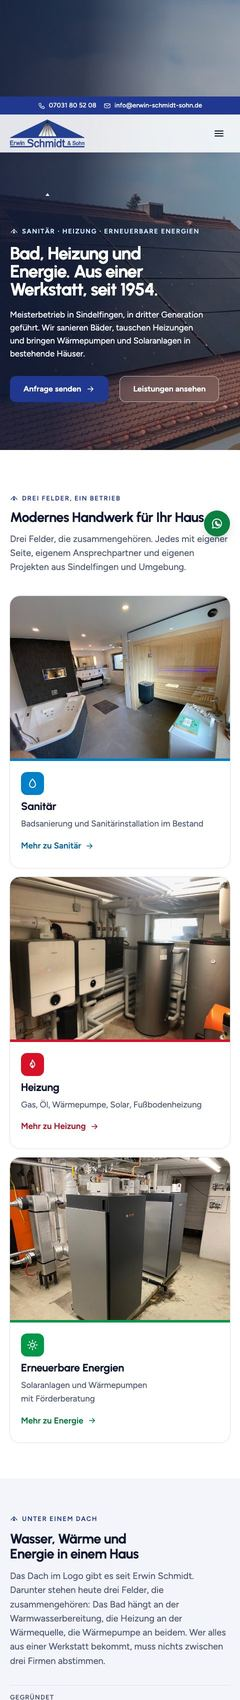
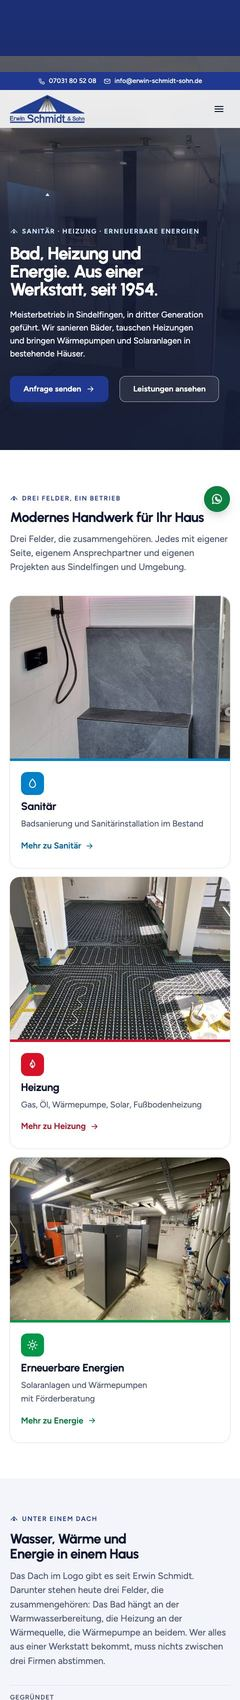
webdesign: Erwin-Schmidt-Screenshot mit Foto-Hero

diff --git a/webdesign/index.html b/webdesign/index.html
@@ -40,7 +40,7 @@
 </header>
 <div class="mobilmenu" id="mobilmenu"><a href="/monteure/"><svg class="ik" viewBox="0 0 24 24" aria-hidden="true" focusable="false"><path d="M16 21v-2a4 4 0 0 0-4-4H6a4 4 0 0 0-4 4v2"/><circle cx="9" cy="7" r="4"/><path d="M22 21v-2a4 4 0 0 0-3-3.87"/><path d="M16 3.13a4 4 0 0 1 0 7.75"/></svg>Monteure</a><a href="/auftraege/"><svg class="ik" viewBox="0 0 24 24" aria-hidden="true" focusable="false"><path d="M9 6 6.5 3.5a1.5 1.5 0 0 0-1-.5C4.683 3 4 3.683 4 4.5V17a2 2 0 0 0 2 2h12a2 2 0 0 0 2-2v-5"/><path d="m10 5-2 2"/><path d="M2 12h20"/><path d="M7 19v2"/><path d="M17 19v2"/></svg>Aufträge</a><a href="/ueber-uns/"><svg class="ik" viewBox="0 0 24 24" aria-hidden="true" focusable="false"><path d="m11 17 2 2a1 1 0 1 0 3-3"/><path d="m14 14 2.5 2.5a1 1 0 1 0 3-3l-3.88-3.88a3 3 0 0 0-4.24 0l-.88.88a1 1 0 1 1-3-3l2.81-2.81a5.79 5.79 0 0 1 7.06-.87l.47.28a2 2 0 0 0 1.42.25L21 4"/><path d="m21 3 1 11h-2"/><path d="M3 3 2 14l6.5 6.5a1 1 0 1 0 3-3"/><path d="M3 4h8"/></svg>Über uns</a><a class="nav-cta" href="/potenzialanalyse/"><svg class="ik" viewBox="0 0 24 24" aria-hidden="true" focusable="false"><circle cx="12" cy="12" r="10"/><circle cx="12" cy="12" r="6"/><circle cx="12" cy="12" r="2"/></svg>Potenzialanalyse</a></div>
 <main>
-<section class="uhero w web-hero"><div class="raster" aria-hidden="true"></div><div class="wrap"><div class="txt"><p class="kick rv">Websites für SHK-Betriebe</p><h1 class="h-xl rv" data-d="1">Eine Website, die Bäder bringt. <span class="em w">Und Monteure.</span></h1><p class="lead rv" data-d="2">Jede Leistung bekommt ihre eigene Seite mit deinem Ort. Die Anfrage fragt Baujahr und Eigentum ab, bevor du zurückrufst. Dazu eine Karriereseite, auf der sich Monteure in 60 Sekunden bewerben. Gebaut mit Fotos aus deinem Betrieb, online in zwei bis drei Wochen.</p><div class="hero-cta rv" data-d="3"><a class="btn btn-warm btn-lg" href="https://calendly.com/noahseelau/website-potenzial" target="_blank" rel="noopener"><svg class="ik ic" viewBox="0 0 24 24" aria-hidden="true" focusable="false"><rect width="20" height="14" x="2" y="3" rx="2"/><path d="M8 21h8"/><path d="M12 17v4"/></svg>Website besprechen</a><a class="btn btn-glass btn-lg" href="#projekte">Drei Seiten ansehen</a></div><div class="rv" data-d="4"><p class="trust"><span><span class="stern" aria-hidden="true"><svg class="ik voll" viewBox="0 0 24 24" aria-hidden="true" focusable="false"><path d="M12 2.5l2.9 6.05 6.6.85-4.85 4.6 1.25 6.55L12 17.4l-5.9 3.15 1.25-6.55L2.5 9.4l6.6-.85z"/></svg><svg class="ik voll" viewBox="0 0 24 24" aria-hidden="true" focusable="false"><path d="M12 2.5l2.9 6.05 6.6.85-4.85 4.6 1.25 6.55L12 17.4l-5.9 3.15 1.25-6.55L2.5 9.4l6.6-.85z"/></svg><svg class="ik voll" viewBox="0 0 24 24" aria-hidden="true" focusable="false"><path d="M12 2.5l2.9 6.05 6.6.85-4.85 4.6 1.25 6.55L12 17.4l-5.9 3.15 1.25-6.55L2.5 9.4l6.6-.85z"/></svg><svg class="ik voll" viewBox="0 0 24 24" aria-hidden="true" focusable="false"><path d="M12 2.5l2.9 6.05 6.6.85-4.85 4.6 1.25 6.55L12 17.4l-5.9 3.15 1.25-6.55L2.5 9.4l6.6-.85z"/></svg><svg class="ik voll" viewBox="0 0 24 24" aria-hidden="true" focusable="false"><path d="M12 2.5l2.9 6.05 6.6.85-4.85 4.6 1.25 6.55L12 17.4l-5.9 3.15 1.25-6.55L2.5 9.4l6.6-.85z"/></svg></span> <b>5,0</b> auf Google</span><span>·</span><span><b>130+</b> Betriebe</span><span>·</span><span><b>Spezialisiert</b> auf SHK</span></p></div></div><div class="web-stapel rv" data-d="2"><div class="browser s3"><div class="b-leiste" aria-hidden="true"><i></i><i></i><i></i><span>Erwin Schmidt & Sohn · Sindelfingen</span></div><div class="scroller"><img decoding="async" src="/assets/opt/assets-webdesign-erwin-schmidt-start-desk-600-600.webp?v=c0965d97" srcset="/assets/webdesign/erwin-schmidt-start-desk-600.jpg?v=a8168637 600w, /assets/webdesign/erwin-schmidt-start-desk.jpg?v=fdcce0b1 1200w" sizes="(max-width: 900px) 86vw, 40vw" alt="Erwin Schmidt &amp; Sohn · Sindelfingen, Startseite" width="1200" height="3200" fetchpriority="low"></div></div><div class="browser s2"><div class="b-leiste" aria-hidden="true"><i></i><i></i><i></i><span>Irlbacher GmbH · Fensterbach</span></div><div class="scroller"><img decoding="async" src="/assets/opt/assets-webdesign-irlbacher-start-desk-600-600.webp?v=c18dfa46" srcset="/assets/webdesign/irlbacher-start-desk-600.jpg?v=5e6b7e17 600w, /assets/webdesign/irlbacher-start-desk.jpg?v=13626c0e 1200w" sizes="(max-width: 900px) 86vw, 40vw" alt="Irlbacher GmbH · Fensterbach, Startseite" width="1200" height="3200" fetchpriority="low"></div></div><div class="browser s1"><div class="b-leiste" aria-hidden="true"><i></i><i></i><i></i><span>Entenmann Haustechnik · Weilheim i.OB</span></div><div class="scroller"><img decoding="async" src="/assets/opt/assets-webdesign-entenmann-start-desk-600-600.webp?v=257fb932" srcset="/assets/webdesign/entenmann-start-desk-600.jpg?v=13d3f19e 600w, /assets/webdesign/entenmann-start-desk.jpg?v=5aa8c568 1200w" sizes="(max-width: 900px) 86vw, 40vw" alt="Entenmann Haustechnik · Weilheim i.OB, Startseite" width="1200" height="3200" fetchpriority="high"></div></div></div></div></section><section class="sec" id="vorteile"><div class="wrap"><div class="sec-kopf"><div><p class="kick w rv">Was die Seite können muss</p><h2 class="d rv">Gebaut für die Aufträge, <span class="em w">die du willst.</span></h2></div><p class="lead rv">Ein Komplettbad oder eine Wärmepumpe bringt 20.000 bis 50.000 €. Die Seite muss genau dafür gefunden werden und die Anfrage vorsortieren, bevor du losfährst.</p></div><div class="vorteile bilder-v"><article class="vorteil mit-bild w rv" data-d="1"><div class="v-bild" aria-hidden="true"><img decoding="async" loading="lazy" srcset="/assets/opt/assets-webdesign-entenmann-heizung-320.webp?v=494382b1 320w, /assets/opt/assets-webdesign-entenmann-heizung-480.webp?v=f5fad840 480w, /assets/opt/assets-webdesign-entenmann-heizung-640.webp?v=5f0bf9f5 640w, /assets/opt/assets-webdesign-entenmann-heizung-960.webp?v=afa210d3 960w, /assets/opt/assets-webdesign-entenmann-heizung-1100.webp?v=4d3ea10e 1100w" sizes="(max-width: 700px) 280px, 370px" src="/assets/opt/assets-webdesign-entenmann-heizung-1100.webp?v=4d3ea10e" alt="Leistungsseite Heizung und Wärmepumpe der Entenmann Haustechnik" width="1200" height="750"></div><h3>Eine Seite je Leistung, mit Ort</h3><p>Jede Leistung bekommt ihre eigene Seite mit deinem Ort im Titel, die Wärmepumpe genauso wie das Bad. Wer „Wärmepumpe Weilheim“ sucht, landet auf genau dieser Seite.</p></article><article class="vorteil mit-bild w rv" data-d="2"><div class="v-bild" aria-hidden="true"><div class="tickets" aria-hidden="true"><div class="ticket" style="--d:0.00s"><span class="tic"><svg class="ik" viewBox="0 0 24 24" aria-hidden="true" focusable="false"><path d="M9 6 6.5 3.5a1.5 1.5 0 0 0-1-.5C4.683 3 4 3.683 4 4.5V17a2 2 0 0 0 2 2h12a2 2 0 0 0 2-2v-5"/><path d="m10 5-2 2"/><path d="M2 12h20"/><path d="M7 19v2"/><path d="M17 19v2"/></svg></span><span><b>Komplettbad</b><small>EFH · Baujahr 1994 · Eigentümer · Start im Frühjahr</small></span><span class="ok">vorqualifiziert<svg class="ik" viewBox="0 0 24 24" aria-hidden="true" focusable="false"><path d="M20 6 9 17l-5-5"/></svg></span></div><div class="ticket" style="--d:0.12s"><span class="tic"><svg class="ik" viewBox="0 0 24 24" aria-hidden="true" focusable="false"><path d="M8.5 14.5A2.5 2.5 0 0 0 11 12c0-1.38-.5-2-1-3-1.072-2.143-.224-4.054 2-6 .5 2.5 2 4.9 4 6.5 2 1.6 3 3.5 3 5.5a7 7 0 1 1-14 0c0-1.153.433-2.294 1-3a2.5 2.5 0 0 0 2.5 2.5z"/></svg></span><span><b>Wärmepumpe</b><small>Ölheizung Bj. 2001 · 160 m² · Eigentümer</small></span><span class="ok">vorqualifiziert<svg class="ik" viewBox="0 0 24 24" aria-hidden="true" focusable="false"><path d="M20 6 9 17l-5-5"/></svg></span></div></div></div><h3>Anfragen, die vorsortiert ankommen</h3><p>Das Formular fragt nach Baujahr und Heizungsart und ob der Anrufer Eigentümer ist. Das weißt du, bevor du zurückrufst, und fährst nicht mehr zu Kunden, bei denen es schon am Baujahr scheitert.</p></article><article class="vorteil mit-bild  rv" data-d="3"><div class="v-bild" aria-hidden="true"><div class="mini-phone v-phone"><img decoding="async" fetchpriority="low" width="480" height="7730" srcset="/assets/opt/assets-funnels-irlbacher-jobs-full-200.webp?v=64af6670 200w, /assets/opt/assets-funnels-irlbacher-jobs-full-320.webp?v=7e382694 320w, /assets/opt/assets-funnels-irlbacher-jobs-full-480.webp?v=ce5ad504 480w" sizes="(max-width: 700px) 150px, 150px" src="/assets/opt/assets-funnels-irlbacher-jobs-full-480.webp?v=ce5ad504" alt="" loading="lazy"></div></div><h3>Karriereseite, Bewerbung in 60 Sekunden</h3><p>Ein paar Fragen am Handy, kein Lebenslauf. Die Jobs-Seite von Irlbacher führt direkt in die Bewerbungsstrecke, in der auch die Anzeigen laufen.</p></article></div></div></section><section class="sec" id="projekte" style="padding-top:0"><div class="wrap"><div class="sec-kopf"><div><p class="kick k rv">Drei Betriebe, drei Seiten</p><h2 class="d rv">So sieht das bei <span class="em k">drei SHK-Betrieben</span> aus.</h2></div><p class="lead rv">Weilheim in Oberbayern, Fensterbach in der Oberpfalz und Sindelfingen bei Stuttgart. Jede Seite scrollt von selbst durch, sobald sie im Bild ist.</p></div><div class="web-projekte"><article class="web-projekt w rv" data-d="0" id="entenmann"><div class="web-schirm"><div class="raster" aria-hidden="true"></div><div class="web-duo"><div class="phone klein"><div class="scroller"><img decoding="async" src="/assets/opt/assets-webdesign-entenmann-start-mobil-240-240.webp?v=27c89fe5" srcset="/assets/webdesign/entenmann-start-mobil-240.jpg?v=c64f9e31 240w, /assets/webdesign/entenmann-start-mobil.jpg?v=8d6258fd 480w" sizes="(max-width: 1180px) 24vw, 12vw" alt="" width="480" height="3400" loading="lazy"></div></div><div class="browser"><div class="b-leiste" aria-hidden="true"><i></i><i></i><i></i><span>Entenmann Haustechnik · Weilheim i.OB</span></div><div class="scroller"><img decoding="async" src="/assets/opt/assets-webdesign-entenmann-start-desk-600-600.webp?v=257fb932" srcset="/assets/webdesign/entenmann-start-desk-600.jpg?v=13d3f19e 600w, /assets/webdesign/entenmann-start-desk.jpg?v=5aa8c568 1200w" sizes="(max-width: 1180px) 70vw, 36vw" alt="Entenmann Haustechnik · Weilheim i.OB, Startseite" width="1200" height="3200" loading="lazy"></div></div></div></div><div class="web-text"><span class="lg"><img decoding="async" loading="lazy" srcset="/assets/opt/assets-logos-box-entenmann-180.webp?v=2d45d67e 180w, /assets/opt/assets-logos-box-entenmann-336.webp?v=93acbc05 336w" sizes="(max-width: 700px) 150px, 150px" src="/assets/opt/assets-logos-box-entenmann-336.webp?v=93acbc05" alt="Entenmann Haustechnik" width="336" height="120"></span><p class="kick w">Heizung · Bad · Wärmepumpe · Weilheim i.OB</p><h3>Entenmann Haustechnik</h3><p>Meisterbetrieb seit 1969, vom Diplom-Ingenieur geplant. Dunkle Bühne, Video im Hero, und der Wärmekreis aus dem Logo zieht sich als Linie durch die ganze Seite.</p><ul class="web-punkte"><li><span class="ic" aria-hidden="true"><svg class="ik" viewBox="0 0 24 24" aria-hidden="true" focusable="false"><rect width="20" height="14" x="2" y="3" rx="2"/><path d="M8 21h8"/><path d="M12 17v4"/></svg></span><span>Eine Seite je Leistung: Heizung &amp; Wärmepumpe, Bad &amp; Sanitär, Anlagentechnik, Wartung &amp; Notdienst</span></li><li><span class="ic" aria-hidden="true"><svg class="ik" viewBox="0 0 24 24" aria-hidden="true" focusable="false"><path d="M16 21v-2a4 4 0 0 0-4-4H6a4 4 0 0 0-4 4v2"/><circle cx="9" cy="7" r="4"/><path d="M22 21v-2a4 4 0 0 0-3-3.87"/><path d="M16 3.13a4 4 0 0 1 0 7.75"/></svg></span><span>Jobs-Seite für Anlagenmechaniker SHK</span></li><li><span class="ic" aria-hidden="true"><svg class="ik" viewBox="0 0 24 24" aria-hidden="true" focusable="false"><circle cx="11" cy="11" r="8"/><path d="m21 21-4.3-4.3"/></svg></span><span>Jede Seite auf Weilheim und Umgebung gebaut</span></li></ul><a class="btn btn-ink" href="https://entenmann-preview.pages.dev/" target="_blank" rel="noopener"><svg class="ik ic" viewBox="0 0 24 24" aria-hidden="true" focusable="false"><rect width="20" height="14" x="2" y="3" rx="2"/><path d="M8 21h8"/><path d="M12 17v4"/></svg>Seite ansehen</a></div></article><article class="web-projekt k gespiegelt rv" data-d="1" id="irlbacher"><div class="web-schirm"><div class="raster" aria-hidden="true"></div><div class="web-duo"><div class="phone klein"><div class="scroller"><img decoding="async" src="/assets/opt/assets-webdesign-irlbacher-start-mobil-240-240.webp?v=9ee0a622" srcset="/assets/webdesign/irlbacher-start-mobil-240.jpg?v=ede103c6 240w, /assets/webdesign/irlbacher-start-mobil.jpg?v=b8c7e320 480w" sizes="(max-width: 1180px) 24vw, 12vw" alt="" width="480" height="3400" loading="lazy"></div></div><div class="browser"><div class="b-leiste" aria-hidden="true"><i></i><i></i><i></i><span>Irlbacher GmbH · Fensterbach</span></div><div class="scroller"><img decoding="async" src="/assets/opt/assets-webdesign-irlbacher-start-desk-600-600.webp?v=c18dfa46" srcset="/assets/webdesign/irlbacher-start-desk-600.jpg?v=5e6b7e17 600w, /assets/webdesign/irlbacher-start-desk.jpg?v=13626c0e 1200w" sizes="(max-width: 1180px) 70vw, 36vw" alt="Irlbacher GmbH · Fensterbach, Startseite" width="1200" height="3200" loading="lazy"></div></div></div></div><div class="web-text"><span class="lg"><img decoding="async" loading="lazy" srcset="/assets/opt/assets-logos-box-irlbacher-180.webp?v=66ed90b6 180w, /assets/opt/assets-logos-box-irlbacher-336.webp?v=e89e2a06 336w" sizes="(max-width: 700px) 150px, 150px" src="/assets/opt/assets-logos-box-irlbacher-336.webp?v=e89e2a06" alt="Irlbacher GmbH" width="336" height="120"></span><p class="kick k">Sanitär · Heizung · Lüftung · Fensterbach bei Schwandorf</p><h3>Irlbacher GmbH</h3><p>Josef Irlbacher und sein Team vor der Kamera, Fotos vom Shooting im Betrieb. Die drei Bögen aus dem Logo laufen als Ring durch Hero und Unterseiten.</p><ul class="web-punkte"><li><span class="ic" aria-hidden="true"><svg class="ik" viewBox="0 0 24 24" aria-hidden="true" focusable="false"><rect width="20" height="14" x="2" y="3" rx="2"/><path d="M8 21h8"/><path d="M12 17v4"/></svg></span><span>Sechs Leistungsseiten: Bad, Heizung, Wärmepumpe, Lüftung &amp; Klima, Solar, Kundendienst</span></li><li><span class="ic" aria-hidden="true"><svg class="ik" viewBox="0 0 24 24" aria-hidden="true" focusable="false"><path d="M16 21v-2a4 4 0 0 0-4-4H6a4 4 0 0 0-4 4v2"/><circle cx="9" cy="7" r="4"/><path d="M22 21v-2a4 4 0 0 0-3-3.87"/><path d="M16 3.13a4 4 0 0 1 0 7.75"/></svg></span><span>Jobs-Seite mit Recruiting-Reel und Bewerbung in 60 Sekunden</span></li><li><span class="ic" aria-hidden="true"><svg class="ik" viewBox="0 0 24 24" aria-hidden="true" focusable="false"><path d="M14.5 4h-5L7 7H4a2 2 0 0 0-2 2v9a2 2 0 0 0 2 2h16a2 2 0 0 0 2-2V9a2 2 0 0 0-2-2h-3l-2.5-3z"/><circle cx="12" cy="13" r="3"/></svg></span><span>Shooting bei Irlbacher: Team, Werkstatt, Fahrzeuge</span></li></ul><a class="btn btn-ink" href="https://irlbacher-vorschau.handwerksmanufaktur.workers.dev/" target="_blank" rel="noopener"><svg class="ik ic" viewBox="0 0 24 24" aria-hidden="true" focusable="false"><rect width="20" height="14" x="2" y="3" rx="2"/><path d="M8 21h8"/><path d="M12 17v4"/></svg>Seite ansehen</a></div></article><article class="web-projekt w rv" data-d="2" id="erwin-schmidt"><div class="web-schirm"><div class="raster" aria-hidden="true"></div><div class="web-duo"><div class="phone klein"><div class="scroller"><img decoding="async" src="/assets/opt/assets-webdesign-erwin-schmidt-start-mobil-240-240.webp?v=d6b666a0" srcset="/assets/webdesign/erwin-schmidt-start-mobil-240.jpg?v=5a753ef4 240w, /assets/webdesign/erwin-schmidt-start-mobil.jpg?v=f668d674 480w" sizes="(max-width: 1180px) 24vw, 12vw" alt="" width="480" height="3400" loading="lazy"></div></div><div class="browser"><div class="b-leiste" aria-hidden="true"><i></i><i></i><i></i><span>Erwin Schmidt &amp; Sohn · Sindelfingen</span></div><div class="scroller"><img decoding="async" src="/assets/opt/assets-webdesign-erwin-schmidt-start-desk-600-600.webp?v=c0965d97" srcset="/assets/webdesign/erwin-schmidt-start-desk-600.jpg?v=a8168637 600w, /assets/webdesign/erwin-schmidt-start-desk.jpg?v=fdcce0b1 1200w" sizes="(max-width: 1180px) 70vw, 36vw" alt="Erwin Schmidt &amp;amp; Sohn · Sindelfingen, Startseite" width="1200" height="3200" loading="lazy"></div></div></div></div><div class="web-text"><span class="lg"><img decoding="async" loading="lazy" srcset="/assets/opt/assets-logos-box-erwin-schmidt-180.webp?v=9d192bf5 180w, /assets/opt/assets-logos-box-erwin-schmidt-336.webp?v=763532de 336w" sizes="(max-width: 700px) 150px, 150px" src="/assets/opt/assets-logos-box-erwin-schmidt-336.webp?v=763532de" alt="Erwin Schmidt &amp; Sohn" width="336" height="120"></span><p class="kick w">Sanitär · Heizung · Energie · Sindelfingen</p><h3>Erwin Schmidt &amp; Sohn</h3><p>Familienbetrieb seit 1954, geführt von Meike Bürkle und Florian Schmidt in dritter Generation. Die Marke mit dem blauen Dach bleibt, die Seite wird neu aufgebaut: das Dach aus dem Logo zeichnet sich im Hero, 58 Fotos aus dem Betrieb statt Stock, eine Seite je Leistung und eine Jobs-Seite, die in die laufende Bewerbungsstrecke führt.</p><ul class="web-punkte"><li><span class="ic" aria-hidden="true"><svg class="ik" viewBox="0 0 24 24" aria-hidden="true" focusable="false"><rect width="20" height="14" x="2" y="3" rx="2"/><path d="M8 21h8"/><path d="M12 17v4"/></svg></span><span>Drei Leistungsseiten: Sanitär, Heizung, Erneuerbare Energien</span></li><li><span class="ic" aria-hidden="true"><svg class="ik" viewBox="0 0 24 24" aria-hidden="true" focusable="false"><path d="M16 21v-2a4 4 0 0 0-4-4H6a4 4 0 0 0-4 4v2"/><circle cx="9" cy="7" r="4"/><path d="M22 21v-2a4 4 0 0 0-3-3.87"/><path d="M16 3.13a4 4 0 0 1 0 7.75"/></svg></span><span>Jobs-Seite mit Bewerbung in 60 Sekunden, 25 Bewerbungen in vier Wochen</span></li><li><span class="ic" aria-hidden="true"><svg class="ik" viewBox="0 0 24 24" aria-hidden="true" focusable="false"><circle cx="11" cy="11" r="8"/><path d="m21 21-4.3-4.3"/></svg></span><span>Umkreis 30 km um Sindelfingen als Karte auf jeder Seite</span></li></ul><a class="btn btn-ink" href="https://erwin-schmidt-vorschau.handwerksmanufaktur.workers.dev/" target="_blank" rel="noopener"><svg class="ik ic" viewBox="0 0 24 24" aria-hidden="true" focusable="false"><rect width="20" height="14" x="2" y="3" rx="2"/><path d="M8 21h8"/><path d="M12 17v4"/></svg>Seite ansehen</a></div></article></div></div></section><section class="stimmen" id="stimmen">
+<section class="uhero w web-hero"><div class="raster" aria-hidden="true"></div><div class="wrap"><div class="txt"><p class="kick rv">Websites für SHK-Betriebe</p><h1 class="h-xl rv" data-d="1">Eine Website, die Bäder bringt. <span class="em w">Und Monteure.</span></h1><p class="lead rv" data-d="2">Jede Leistung bekommt ihre eigene Seite mit deinem Ort. Die Anfrage fragt Baujahr und Eigentum ab, bevor du zurückrufst. Dazu eine Karriereseite, auf der sich Monteure in 60 Sekunden bewerben. Gebaut mit Fotos aus deinem Betrieb, online in zwei bis drei Wochen.</p><div class="hero-cta rv" data-d="3"><a class="btn btn-warm btn-lg" href="https://calendly.com/noahseelau/website-potenzial" target="_blank" rel="noopener"><svg class="ik ic" viewBox="0 0 24 24" aria-hidden="true" focusable="false"><rect width="20" height="14" x="2" y="3" rx="2"/><path d="M8 21h8"/><path d="M12 17v4"/></svg>Website besprechen</a><a class="btn btn-glass btn-lg" href="#projekte">Drei Seiten ansehen</a></div><div class="rv" data-d="4"><p class="trust"><span><span class="stern" aria-hidden="true"><svg class="ik voll" viewBox="0 0 24 24" aria-hidden="true" focusable="false"><path d="M12 2.5l2.9 6.05 6.6.85-4.85 4.6 1.25 6.55L12 17.4l-5.9 3.15 1.25-6.55L2.5 9.4l6.6-.85z"/></svg><svg class="ik voll" viewBox="0 0 24 24" aria-hidden="true" focusable="false"><path d="M12 2.5l2.9 6.05 6.6.85-4.85 4.6 1.25 6.55L12 17.4l-5.9 3.15 1.25-6.55L2.5 9.4l6.6-.85z"/></svg><svg class="ik voll" viewBox="0 0 24 24" aria-hidden="true" focusable="false"><path d="M12 2.5l2.9 6.05 6.6.85-4.85 4.6 1.25 6.55L12 17.4l-5.9 3.15 1.25-6.55L2.5 9.4l6.6-.85z"/></svg><svg class="ik voll" viewBox="0 0 24 24" aria-hidden="true" focusable="false"><path d="M12 2.5l2.9 6.05 6.6.85-4.85 4.6 1.25 6.55L12 17.4l-5.9 3.15 1.25-6.55L2.5 9.4l6.6-.85z"/></svg><svg class="ik voll" viewBox="0 0 24 24" aria-hidden="true" focusable="false"><path d="M12 2.5l2.9 6.05 6.6.85-4.85 4.6 1.25 6.55L12 17.4l-5.9 3.15 1.25-6.55L2.5 9.4l6.6-.85z"/></svg></span> <b>5,0</b> auf Google</span><span>·</span><span><b>130+</b> Betriebe</span><span>·</span><span><b>Spezialisiert</b> auf SHK</span></p></div></div><div class="web-stapel rv" data-d="2"><div class="browser s3"><div class="b-leiste" aria-hidden="true"><i></i><i></i><i></i><span>Erwin Schmidt & Sohn · Sindelfingen</span></div><div class="scroller"><img decoding="async" src="/assets/opt/assets-webdesign-erwin-schmidt-start-desk-600-600.webp?v=064769dc" srcset="/assets/webdesign/erwin-schmidt-start-desk-600.jpg?v=75cc6e66 600w, /assets/webdesign/erwin-schmidt-start-desk.jpg?v=4e32e351 1200w" sizes="(max-width: 900px) 86vw, 40vw" alt="Erwin Schmidt &amp; Sohn · Sindelfingen, Startseite" width="1200" height="3200" fetchpriority="low"></div></div><div class="browser s2"><div class="b-leiste" aria-hidden="true"><i></i><i></i><i></i><span>Irlbacher GmbH · Fensterbach</span></div><div class="scroller"><img decoding="async" src="/assets/opt/assets-webdesign-irlbacher-start-desk-600-600.webp?v=c18dfa46" srcset="/assets/webdesign/irlbacher-start-desk-600.jpg?v=5e6b7e17 600w, /assets/webdesign/irlbacher-start-desk.jpg?v=13626c0e 1200w" sizes="(max-width: 900px) 86vw, 40vw" alt="Irlbacher GmbH · Fensterbach, Startseite" width="1200" height="3200" fetchpriority="low"></div></div><div class="browser s1"><div class="b-leiste" aria-hidden="true"><i></i><i></i><i></i><span>Entenmann Haustechnik · Weilheim i.OB</span></div><div class="scroller"><img decoding="async" src="/assets/opt/assets-webdesign-entenmann-start-desk-600-600.webp?v=257fb932" srcset="/assets/webdesign/entenmann-start-desk-600.jpg?v=13d3f19e 600w, /assets/webdesign/entenmann-start-desk.jpg?v=5aa8c568 1200w" sizes="(max-width: 900px) 86vw, 40vw" alt="Entenmann Haustechnik · Weilheim i.OB, Startseite" width="1200" height="3200" fetchpriority="high"></div></div></div></div></section><section class="sec" id="vorteile"><div class="wrap"><div class="sec-kopf"><div><p class="kick w rv">Was die Seite können muss</p><h2 class="d rv">Gebaut für die Aufträge, <span class="em w">die du willst.</span></h2></div><p class="lead rv">Ein Komplettbad oder eine Wärmepumpe bringt 20.000 bis 50.000 €. Die Seite muss genau dafür gefunden werden und die Anfrage vorsortieren, bevor du losfährst.</p></div><div class="vorteile bilder-v"><article class="vorteil mit-bild w rv" data-d="1"><div class="v-bild" aria-hidden="true"><img decoding="async" loading="lazy" srcset="/assets/opt/assets-webdesign-entenmann-heizung-320.webp?v=494382b1 320w, /assets/opt/assets-webdesign-entenmann-heizung-480.webp?v=f5fad840 480w, /assets/opt/assets-webdesign-entenmann-heizung-640.webp?v=5f0bf9f5 640w, /assets/opt/assets-webdesign-entenmann-heizung-960.webp?v=afa210d3 960w, /assets/opt/assets-webdesign-entenmann-heizung-1100.webp?v=4d3ea10e 1100w" sizes="(max-width: 700px) 280px, 370px" src="/assets/opt/assets-webdesign-entenmann-heizung-1100.webp?v=4d3ea10e" alt="Leistungsseite Heizung und Wärmepumpe der Entenmann Haustechnik" width="1200" height="750"></div><h3>Eine Seite je Leistung, mit Ort</h3><p>Jede Leistung bekommt ihre eigene Seite mit deinem Ort im Titel, die Wärmepumpe genauso wie das Bad. Wer „Wärmepumpe Weilheim“ sucht, landet auf genau dieser Seite.</p></article><article class="vorteil mit-bild w rv" data-d="2"><div class="v-bild" aria-hidden="true"><div class="tickets" aria-hidden="true"><div class="ticket" style="--d:0.00s"><span class="tic"><svg class="ik" viewBox="0 0 24 24" aria-hidden="true" focusable="false"><path d="M9 6 6.5 3.5a1.5 1.5 0 0 0-1-.5C4.683 3 4 3.683 4 4.5V17a2 2 0 0 0 2 2h12a2 2 0 0 0 2-2v-5"/><path d="m10 5-2 2"/><path d="M2 12h20"/><path d="M7 19v2"/><path d="M17 19v2"/></svg></span><span><b>Komplettbad</b><small>EFH · Baujahr 1994 · Eigentümer · Start im Frühjahr</small></span><span class="ok">vorqualifiziert<svg class="ik" viewBox="0 0 24 24" aria-hidden="true" focusable="false"><path d="M20 6 9 17l-5-5"/></svg></span></div><div class="ticket" style="--d:0.12s"><span class="tic"><svg class="ik" viewBox="0 0 24 24" aria-hidden="true" focusable="false"><path d="M8.5 14.5A2.5 2.5 0 0 0 11 12c0-1.38-.5-2-1-3-1.072-2.143-.224-4.054 2-6 .5 2.5 2 4.9 4 6.5 2 1.6 3 3.5 3 5.5a7 7 0 1 1-14 0c0-1.153.433-2.294 1-3a2.5 2.5 0 0 0 2.5 2.5z"/></svg></span><span><b>Wärmepumpe</b><small>Ölheizung Bj. 2001 · 160 m² · Eigentümer</small></span><span class="ok">vorqualifiziert<svg class="ik" viewBox="0 0 24 24" aria-hidden="true" focusable="false"><path d="M20 6 9 17l-5-5"/></svg></span></div></div></div><h3>Anfragen, die vorsortiert ankommen</h3><p>Das Formular fragt nach Baujahr und Heizungsart und ob der Anrufer Eigentümer ist. Das weißt du, bevor du zurückrufst, und fährst nicht mehr zu Kunden, bei denen es schon am Baujahr scheitert.</p></article><article class="vorteil mit-bild  rv" data-d="3"><div class="v-bild" aria-hidden="true"><div class="mini-phone v-phone"><img decoding="async" fetchpriority="low" width="480" height="7730" srcset="/assets/opt/assets-funnels-irlbacher-jobs-full-200.webp?v=64af6670 200w, /assets/opt/assets-funnels-irlbacher-jobs-full-320.webp?v=7e382694 320w, /assets/opt/assets-funnels-irlbacher-jobs-full-480.webp?v=ce5ad504 480w" sizes="(max-width: 700px) 150px, 150px" src="/assets/opt/assets-funnels-irlbacher-jobs-full-480.webp?v=ce5ad504" alt="" loading="lazy"></div></div><h3>Karriereseite, Bewerbung in 60 Sekunden</h3><p>Ein paar Fragen am Handy, kein Lebenslauf. Die Jobs-Seite von Irlbacher führt direkt in die Bewerbungsstrecke, in der auch die Anzeigen laufen.</p></article></div></div></section><section class="sec" id="projekte" style="padding-top:0"><div class="wrap"><div class="sec-kopf"><div><p class="kick k rv">Drei Betriebe, drei Seiten</p><h2 class="d rv">So sieht das bei <span class="em k">drei SHK-Betrieben</span> aus.</h2></div><p class="lead rv">Weilheim in Oberbayern, Fensterbach in der Oberpfalz und Sindelfingen bei Stuttgart. Jede Seite scrollt von selbst durch, sobald sie im Bild ist.</p></div><div class="web-projekte"><article class="web-projekt w rv" data-d="0" id="entenmann"><div class="web-schirm"><div class="raster" aria-hidden="true"></div><div class="web-duo"><div class="phone klein"><div class="scroller"><img decoding="async" src="/assets/opt/assets-webdesign-entenmann-start-mobil-240-240.webp?v=27c89fe5" srcset="/assets/webdesign/entenmann-start-mobil-240.jpg?v=c64f9e31 240w, /assets/webdesign/entenmann-start-mobil.jpg?v=8d6258fd 480w" sizes="(max-width: 1180px) 24vw, 12vw" alt="" width="480" height="3400" loading="lazy"></div></div><div class="browser"><div class="b-leiste" aria-hidden="true"><i></i><i></i><i></i><span>Entenmann Haustechnik · Weilheim i.OB</span></div><div class="scroller"><img decoding="async" src="/assets/opt/assets-webdesign-entenmann-start-desk-600-600.webp?v=257fb932" srcset="/assets/webdesign/entenmann-start-desk-600.jpg?v=13d3f19e 600w, /assets/webdesign/entenmann-start-desk.jpg?v=5aa8c568 1200w" sizes="(max-width: 1180px) 70vw, 36vw" alt="Entenmann Haustechnik · Weilheim i.OB, Startseite" width="1200" height="3200" loading="lazy"></div></div></div></div><div class="web-text"><span class="lg"><img decoding="async" loading="lazy" srcset="/assets/opt/assets-logos-box-entenmann-180.webp?v=2d45d67e 180w, /assets/opt/assets-logos-box-entenmann-336.webp?v=93acbc05 336w" sizes="(max-width: 700px) 150px, 150px" src="/assets/opt/assets-logos-box-entenmann-336.webp?v=93acbc05" alt="Entenmann Haustechnik" width="336" height="120"></span><p class="kick w">Heizung · Bad · Wärmepumpe · Weilheim i.OB</p><h3>Entenmann Haustechnik</h3><p>Meisterbetrieb seit 1969, vom Diplom-Ingenieur geplant. Dunkle Bühne, Video im Hero, und der Wärmekreis aus dem Logo zieht sich als Linie durch die ganze Seite.</p><ul class="web-punkte"><li><span class="ic" aria-hidden="true"><svg class="ik" viewBox="0 0 24 24" aria-hidden="true" focusable="false"><rect width="20" height="14" x="2" y="3" rx="2"/><path d="M8 21h8"/><path d="M12 17v4"/></svg></span><span>Eine Seite je Leistung: Heizung &amp; Wärmepumpe, Bad &amp; Sanitär, Anlagentechnik, Wartung &amp; Notdienst</span></li><li><span class="ic" aria-hidden="true"><svg class="ik" viewBox="0 0 24 24" aria-hidden="true" focusable="false"><path d="M16 21v-2a4 4 0 0 0-4-4H6a4 4 0 0 0-4 4v2"/><circle cx="9" cy="7" r="4"/><path d="M22 21v-2a4 4 0 0 0-3-3.87"/><path d="M16 3.13a4 4 0 0 1 0 7.75"/></svg></span><span>Jobs-Seite für Anlagenmechaniker SHK</span></li><li><span class="ic" aria-hidden="true"><svg class="ik" viewBox="0 0 24 24" aria-hidden="true" focusable="false"><circle cx="11" cy="11" r="8"/><path d="m21 21-4.3-4.3"/></svg></span><span>Jede Seite auf Weilheim und Umgebung gebaut</span></li></ul><a class="btn btn-ink" href="https://entenmann-preview.pages.dev/" target="_blank" rel="noopener"><svg class="ik ic" viewBox="0 0 24 24" aria-hidden="true" focusable="false"><rect width="20" height="14" x="2" y="3" rx="2"/><path d="M8 21h8"/><path d="M12 17v4"/></svg>Seite ansehen</a></div></article><article class="web-projekt k gespiegelt rv" data-d="1" id="irlbacher"><div class="web-schirm"><div class="raster" aria-hidden="true"></div><div class="web-duo"><div class="phone klein"><div class="scroller"><img decoding="async" src="/assets/opt/assets-webdesign-irlbacher-start-mobil-240-240.webp?v=9ee0a622" srcset="/assets/webdesign/irlbacher-start-mobil-240.jpg?v=ede103c6 240w, /assets/webdesign/irlbacher-start-mobil.jpg?v=b8c7e320 480w" sizes="(max-width: 1180px) 24vw, 12vw" alt="" width="480" height="3400" loading="lazy"></div></div><div class="browser"><div class="b-leiste" aria-hidden="true"><i></i><i></i><i></i><span>Irlbacher GmbH · Fensterbach</span></div><div class="scroller"><img decoding="async" src="/assets/opt/assets-webdesign-irlbacher-start-desk-600-600.webp?v=c18dfa46" srcset="/assets/webdesign/irlbacher-start-desk-600.jpg?v=5e6b7e17 600w, /assets/webdesign/irlbacher-start-desk.jpg?v=13626c0e 1200w" sizes="(max-width: 1180px) 70vw, 36vw" alt="Irlbacher GmbH · Fensterbach, Startseite" width="1200" height="3200" loading="lazy"></div></div></div></div><div class="web-text"><span class="lg"><img decoding="async" loading="lazy" srcset="/assets/opt/assets-logos-box-irlbacher-180.webp?v=66ed90b6 180w, /assets/opt/assets-logos-box-irlbacher-336.webp?v=e89e2a06 336w" sizes="(max-width: 700px) 150px, 150px" src="/assets/opt/assets-logos-box-irlbacher-336.webp?v=e89e2a06" alt="Irlbacher GmbH" width="336" height="120"></span><p class="kick k">Sanitär · Heizung · Lüftung · Fensterbach bei Schwandorf</p><h3>Irlbacher GmbH</h3><p>Josef Irlbacher und sein Team vor der Kamera, Fotos vom Shooting im Betrieb. Die drei Bögen aus dem Logo laufen als Ring durch Hero und Unterseiten.</p><ul class="web-punkte"><li><span class="ic" aria-hidden="true"><svg class="ik" viewBox="0 0 24 24" aria-hidden="true" focusable="false"><rect width="20" height="14" x="2" y="3" rx="2"/><path d="M8 21h8"/><path d="M12 17v4"/></svg></span><span>Sechs Leistungsseiten: Bad, Heizung, Wärmepumpe, Lüftung &amp; Klima, Solar, Kundendienst</span></li><li><span class="ic" aria-hidden="true"><svg class="ik" viewBox="0 0 24 24" aria-hidden="true" focusable="false"><path d="M16 21v-2a4 4 0 0 0-4-4H6a4 4 0 0 0-4 4v2"/><circle cx="9" cy="7" r="4"/><path d="M22 21v-2a4 4 0 0 0-3-3.87"/><path d="M16 3.13a4 4 0 0 1 0 7.75"/></svg></span><span>Jobs-Seite mit Recruiting-Reel und Bewerbung in 60 Sekunden</span></li><li><span class="ic" aria-hidden="true"><svg class="ik" viewBox="0 0 24 24" aria-hidden="true" focusable="false"><path d="M14.5 4h-5L7 7H4a2 2 0 0 0-2 2v9a2 2 0 0 0 2 2h16a2 2 0 0 0 2-2V9a2 2 0 0 0-2-2h-3l-2.5-3z"/><circle cx="12" cy="13" r="3"/></svg></span><span>Shooting bei Irlbacher: Team, Werkstatt, Fahrzeuge</span></li></ul><a class="btn btn-ink" href="https://irlbacher-vorschau.handwerksmanufaktur.workers.dev/" target="_blank" rel="noopener"><svg class="ik ic" viewBox="0 0 24 24" aria-hidden="true" focusable="false"><rect width="20" height="14" x="2" y="3" rx="2"/><path d="M8 21h8"/><path d="M12 17v4"/></svg>Seite ansehen</a></div></article><article class="web-projekt w rv" data-d="2" id="erwin-schmidt"><div class="web-schirm"><div class="raster" aria-hidden="true"></div><div class="web-duo"><div class="phone klein"><div class="scroller"><img decoding="async" src="/assets/opt/assets-webdesign-erwin-schmidt-start-mobil-240-240.webp?v=094f1ac0" srcset="/assets/webdesign/erwin-schmidt-start-mobil-240.jpg?v=26b5166a 240w, /assets/webdesign/erwin-schmidt-start-mobil.jpg?v=6d0914f3 480w" sizes="(max-width: 1180px) 24vw, 12vw" alt="" width="480" height="3400" loading="lazy"></div></div><div class="browser"><div class="b-leiste" aria-hidden="true"><i></i><i></i><i></i><span>Erwin Schmidt &amp; Sohn · Sindelfingen</span></div><div class="scroller"><img decoding="async" src="/assets/opt/assets-webdesign-erwin-schmidt-start-desk-600-600.webp?v=064769dc" srcset="/assets/webdesign/erwin-schmidt-start-desk-600.jpg?v=75cc6e66 600w, /assets/webdesign/erwin-schmidt-start-desk.jpg?v=4e32e351 1200w" sizes="(max-width: 1180px) 70vw, 36vw" alt="Erwin Schmidt &amp;amp; Sohn · Sindelfingen, Startseite" width="1200" height="3200" loading="lazy"></div></div></div></div><div class="web-text"><span class="lg"><img decoding="async" loading="lazy" srcset="/assets/opt/assets-logos-box-erwin-schmidt-180.webp?v=9d192bf5 180w, /assets/opt/assets-logos-box-erwin-schmidt-336.webp?v=763532de 336w" sizes="(max-width: 700px) 150px, 150px" src="/assets/opt/assets-logos-box-erwin-schmidt-336.webp?v=763532de" alt="Erwin Schmidt &amp; Sohn" width="336" height="120"></span><p class="kick w">Sanitär · Heizung · Energie · Sindelfingen</p><h3>Erwin Schmidt &amp; Sohn</h3><p>Familienbetrieb seit 1954, geführt von Meike Bürkle und Florian Schmidt in dritter Generation. Die Marke mit dem blauen Dach bleibt, die Seite wird neu aufgebaut: das Dach aus dem Logo zeichnet sich im Hero, 58 Fotos aus dem Betrieb statt Stock, eine Seite je Leistung und eine Jobs-Seite, die in die laufende Bewerbungsstrecke führt.</p><ul class="web-punkte"><li><span class="ic" aria-hidden="true"><svg class="ik" viewBox="0 0 24 24" aria-hidden="true" focusable="false"><rect width="20" height="14" x="2" y="3" rx="2"/><path d="M8 21h8"/><path d="M12 17v4"/></svg></span><span>Drei Leistungsseiten: Sanitär, Heizung, Erneuerbare Energien</span></li><li><span class="ic" aria-hidden="true"><svg class="ik" viewBox="0 0 24 24" aria-hidden="true" focusable="false"><path d="M16 21v-2a4 4 0 0 0-4-4H6a4 4 0 0 0-4 4v2"/><circle cx="9" cy="7" r="4"/><path d="M22 21v-2a4 4 0 0 0-3-3.87"/><path d="M16 3.13a4 4 0 0 1 0 7.75"/></svg></span><span>Jobs-Seite mit Bewerbung in 60 Sekunden, 25 Bewerbungen in vier Wochen</span></li><li><span class="ic" aria-hidden="true"><svg class="ik" viewBox="0 0 24 24" aria-hidden="true" focusable="false"><circle cx="11" cy="11" r="8"/><path d="m21 21-4.3-4.3"/></svg></span><span>Umkreis 30 km um Sindelfingen als Karte auf jeder Seite</span></li></ul><a class="btn btn-ink" href="https://erwin-schmidt-vorschau.handwerksmanufaktur.workers.dev/" target="_blank" rel="noopener"><svg class="ik ic" viewBox="0 0 24 24" aria-hidden="true" focusable="false"><rect width="20" height="14" x="2" y="3" rx="2"/><path d="M8 21h8"/><path d="M12 17v4"/></svg>Seite ansehen</a></div></article></div></div></section><section class="stimmen" id="stimmen">
   <div class="wrap">
     <div class="sec-kopf mitte"><p class="kick rv">Stimmen aus der Branche</p><h2 class="d rv">Was Betriebe über <span class="em k">ihre Seite</span> schreiben.</h2><p class="rv"><span class="google"><svg class="g" viewBox="0 0 48 48" aria-hidden="true"><path fill="#EA4335" d="M24 9.5c3.5 0 6.6 1.2 9 3.6l6.7-6.7C35.6 2.6 30.2 0 24 0 14.6 0 6.5 5.4 2.6 13.3l7.8 6.1C12.3 13.5 17.7 9.5 24 9.5z"/><path fill="#4285F4" d="M46.5 24.5c0-1.6-.1-3.1-.4-4.5H24v8.6h12.7c-.6 3-2.2 5.5-4.7 7.2l7.5 5.8c4.4-4.1 7-10.1 7-17.1z"/><path fill="#FBBC05" d="M10.4 28.6A14.5 14.5 0 0 1 9.5 24c0-1.6.3-3.1.8-4.6l-7.8-6.1A24 24 0 0 0 0 24c0 3.9.9 7.5 2.6 10.7l7.8-6.1z"/><path fill="#34A853" d="M24 48c6.5 0 11.9-2.1 15.9-5.8l-7.5-5.8c-2.1 1.4-4.9 2.3-8.4 2.3-6.3 0-11.7-4-13.6-9.9l-7.8 6.1C6.5 42.6 14.6 48 24 48z"/></svg><span>5,0 <span class="stern" aria-hidden="true"><svg class="ik voll" viewBox="0 0 24 24" aria-hidden="true" focusable="false"><path d="M12 2.5l2.9 6.05 6.6.85-4.85 4.6 1.25 6.55L12 17.4l-5.9 3.15 1.25-6.55L2.5 9.4l6.6-.85z"/></svg><svg class="ik voll" viewBox="0 0 24 24" aria-hidden="true" focusable="false"><path d="M12 2.5l2.9 6.05 6.6.85-4.85 4.6 1.25 6.55L12 17.4l-5.9 3.15 1.25-6.55L2.5 9.4l6.6-.85z"/></svg><svg class="ik voll" viewBox="0 0 24 24" aria-hidden="true" focusable="false"><path d="M12 2.5l2.9 6.05 6.6.85-4.85 4.6 1.25 6.55L12 17.4l-5.9 3.15 1.25-6.55L2.5 9.4l6.6-.85z"/></svg><svg class="ik voll" viewBox="0 0 24 24" aria-hidden="true" focusable="false"><path d="M12 2.5l2.9 6.05 6.6.85-4.85 4.6 1.25 6.55L12 17.4l-5.9 3.15 1.25-6.55L2.5 9.4l6.6-.85z"/></svg><svg class="ik voll" viewBox="0 0 24 24" aria-hidden="true" focusable="false"><path d="M12 2.5l2.9 6.05 6.6.85-4.85 4.6 1.25 6.55L12 17.4l-5.9 3.15 1.25-6.55L2.5 9.4l6.6-.85z"/></svg></span></span><span style="font-weight:500;color:var(--sub)">57 Google-Bewertungen</span></span></p></div>
   </div>
